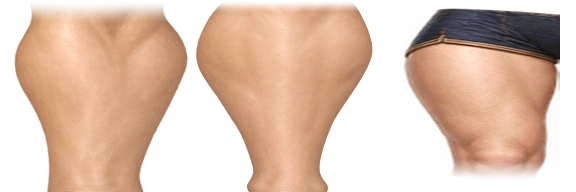
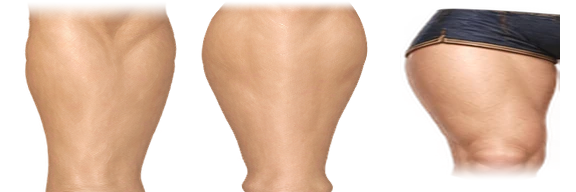
v0.3.21: fit front-facing base pose to the idle reference

diff --git a/app/src/main/java/com/cosmerearchives/dndroguelike/RiggedElf.java b/app/src/main/java/com/cosmerearchives/dndroguelike/RiggedElf.java
@@ -72,9 +72,10 @@ final class RiggedElf {
         attack.sample(attackProgress, side);
         bounce += attack.brace;
 
-        float leftShoulder=RigViewProfile.shoulderX(facing,0);
-        float rightShoulder=RigViewProfile.shoulderX(facing,1);
-        float shoulderY = -108f;
+        boolean frontBase = facing == 0 && !armored;
+        float leftShoulder=RigViewProfile.shoulderX(facing,0) - (frontBase ? .6f : 0f);
+        float rightShoulder=RigViewProfile.shoulderX(facing,1) + (frontBase ? .6f : 0f);
+        float shoulderY = frontBase ? -109f : -108f;
         float leftElbow=RigViewProfile.elbowX(facing,0)+armSwing*.48f;
         float rightElbow=RigViewProfile.elbowX(facing,1)-armSwing*.48f;
         float leftHand=RigViewProfile.handX(facing,0)+armSwing;
@@ -83,6 +84,16 @@ final class RiggedElf {
         float rightElbowY = (side ? -80f : -81f) - armDepth*.42f;
         float leftHandY=RigViewProfile.handY(facing,0)+armDepth-attack.guard;
         float rightHandY=RigViewProfile.handY(facing,1)-armDepth;
+        if (frontBase) {
+            // Continue the upper arm's line into the lower arm and finish
+            // with a relaxed wrist and fingers at the reference height.
+            leftElbow += .4f;
+            rightElbow -= .4f;
+            leftHand += .35f;
+            rightHand -= .65f;
+            leftHandY -= 1.2f;
+            rightHandY -= 1.2f;
+        }
 
         // Rotate the two bone vectors independently around their joints. This keeps
         // the forearm and hand attached even at the top of the wind-up.
@@ -381,8 +392,9 @@ final class RiggedElf {
         if(layers.ready()){
             layers.limb(c,facing,ElfLayerSprites.UPPER_ARM,hand,
                         shoulderX,shoulderY,elbowX,elbowY,14f,armored);
+            float gloveWidth = facing == 0 && !armored ? 11.9f : 13f;
             layers.limb(c,facing,ElfLayerSprites.FOREARM,hand,
-                        elbowX,elbowY,handX,handY,13f,armored,hand==1);
+                        elbowX,elbowY,handX,handY,gloveWidth,armored,hand==1);
             return;
         }
         // Fallback only: preserve drawing if external layer assets are unavailable.

diff --git a/app/src/main/java/com/cosmerearchives/dndroguelike/ElfLayerSprites.java b/app/src/main/java/com/cosmerearchives/dndroguelike/ElfLayerSprites.java
@@ -192,7 +192,7 @@ final class ElfLayerSprites {
             int artX = calf ? CELL : 0;
             float halfWidth = calf ? 5.9f : 4.65f;
             src.set(artX,0,artX+CELL,CELL);
-            dest.set(-halfWidth,-4.2f,halfWidth,length+2f);
+            dest.set(-halfWidth,calf ? -1.7f : -4.2f,halfWidth,length+2f);
             canvas.drawBitmap(frontSkin,src,dest,paint);
             return;
         }
@@ -271,7 +271,8 @@ final class ElfLayerSprites {
         if (part == FOREARM || part == SHIN) {
             // Expose the elbow in the base layer while keeping the existing
             // wrist and finger registration farther down the same art cell.
-            float cuffStart = part == FOREARM && !hasArmor ? length*.49f : 0f;
+            float cuffFraction = column == 0 ? .63f : .49f;
+            float cuffStart = part == FOREARM && !hasArmor ? length*cuffFraction : 0f;
             if (cuffStart > 0f) drawExposedSkin(canvas,cuffStart+6f,false,column);
             float rim = part == SHIN ? 2.4f : 1.5f;
             float rimEnds = part == SHIN ? 2.6f : 1.4f;

diff --git a/README.md b/README.md
@@ -1,5 +1,8 @@
 # Android DnD Roguelike
 
+## v0.3.21 — fit the front-facing idle reference
+- Matches the front Base Only silhouette more closely at the shoulders, elbows, wrists, and knees, using the same artwork for idle and walking.
+
 ## v0.3.20 — paint the front forearms and calves
 - Adds matching illustrated skin art to the front-facing Base Only forearms and calves, with short gloves and boots.
 
